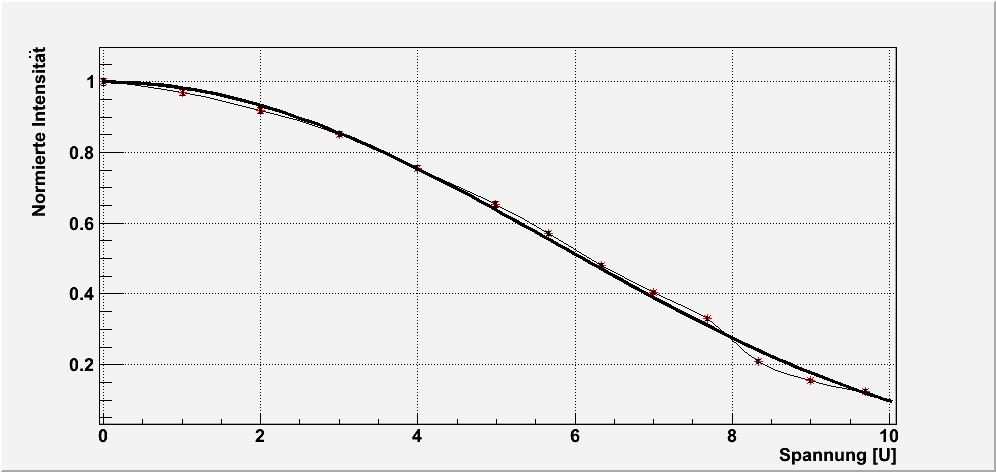
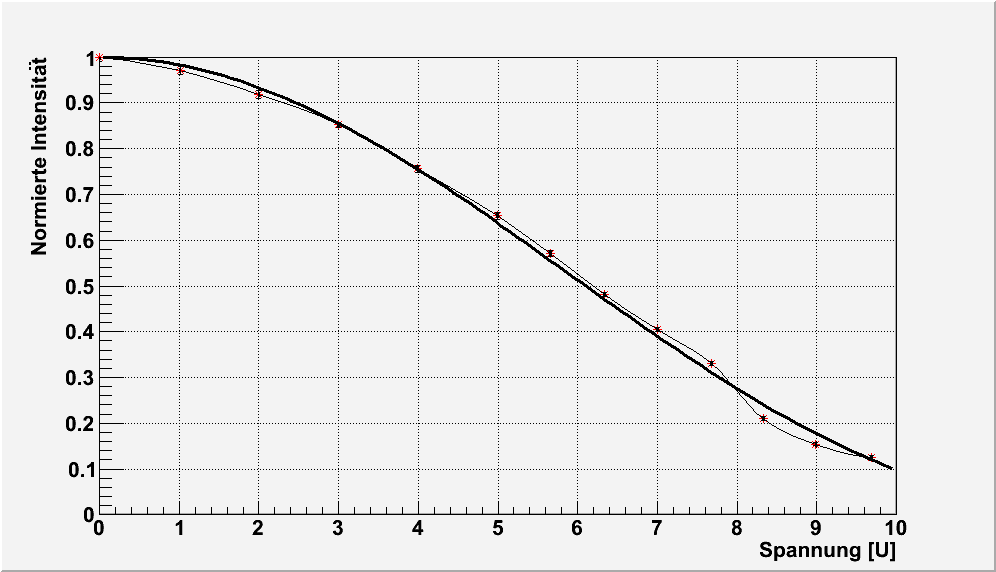
auswertung ++

Changed region(s): [[0.0311, 0.089, 0.9026, 0.8602], [0.0622, 0.5636, 0.9026, 1.0], [0.4357, 0.3856, 0.4669, 0.4153]]

diff --git a/ultraschall/Protokoll/auswertung.tex b/ultraschall/Protokoll/auswertung.tex
@@ -97,6 +97,7 @@ F\"ur die beiden PHYWE-Gitter kennen wir den theoretischen Wert, n\"amlich:
 \item PHYWE-08534: $g_{theo} = 8 L/mm\ \Rightarrow \ K_{theo} = 125 \ \mu m$
 \item PHYWE-08540: $g_{theo} = 10 L/mm\ \Rightarrow \ K_{theo} = 100 \ \mu m$
 %Vergleich mit dem exp. ermittelten Wert
+Unsere Ergebnisse weichen relativ stark von den theoretischen Werten ab, wir vermuten das die Justierung mit Gitter ``R'' fehlerhaft ist. Ursache könnten Deformationen des Gitters ``R'' bedingt durch sein Alter und den häufigen Gebrauch sein. Falls nötig können wir die Eichung für die korrigierte Version nochmals mit einem der PHYWE-Gitter vornehmen.
 \end{itemize} 
 
 \subsection{Berechnung der Aperturfunktion f\"ur Gitter 1}
@@ -121,11 +122,9 @@ Ordnung & Amplitude & Fehler \\
 \end{tabular}
 
 
-
-Mit $K = 130.96 \mu m $ erhalten wir folgende  
-\begin{figure}[h!]
+\begin{figure}[!h]
  \includegraphics{Bilder/appertur.pdf}
-\caption{Apperturfunktion}
+\caption{Apperturfunktion mit $K = 130.96 \mu m $}
 \end{figure}
 
 
@@ -155,28 +154,85 @@ Somit folgt f\"ur die Gitter:
 
 \subsection{Raman-Nath-Theorie}
 
-Durch Ablesen haben wir die Intensität der Maxima bestimmt. Diese haben wir dann mit der Intensität des Hauptmaxima bei ausgeschalteter Spannung $I_0 = $ normiert. Die in der Anleitung empfohlene Verwendung des 1. Minimums bei der Nullten Ordnung zur Bestimmung des Skalierungsfaktors $ $ konnten wir leider nicht befolgen, da dieses Minimum bei nicht durch unsere Messwerte abgedeckt wurde. Daher haben wir den Faktor alternativ durch Fitten der Funktion $J_0(a_0*x)$ an die 0. Ordnung bzw. $J_1(a_1*x)$ an die 1. Ordnung ermittelt. Wir erhalten dabei $a_0 = 1.8453e-01 \pm 3.7e-04$ sowie $a_1 = 2.3449e-01 \pm 7.0e-04 $ und verwenden für die restlichen beiden Ordnungen den Mittelwert $a = 2.09508e-01$. 
+\begin{verbatim}
+ werte[0.0][0] = 7.81411; s[0][0] = 0.05;
+  werte[0.0][1] = 0.534180; s[0][1] = 0.05;
+  werte[0.0][2] = 0.165152; s[0][2] = 0.05;
+  
+  werte[1.01][0] = 7.58345; s[1.01][0] = 0.05;
+  werte[1.01][1] = 0.595606; s[1.01][1] = 0.05;
 
-\begin{figure}[ht!]
+  werte[2.0][0] = 7.18386; s[2][0] = 0.05;
+  werte[2.0][1] = 0.911210; s[2][1] = 0.05;
+  
+  werte[3.0][0] = 6.65979; s[3.0][0] = 0.05;
+  werte[3.0][1] = (0.988260 + 1.06716) /2; s[3.0][0] = 0.03 / sqrt(2.);
+  
+  werte[3.99][0] = 5.90614; s[3.99][0] = 0.04;
+  werte[3.99][1] = (1.32051 + 1.37895) / 2; s[3.99][1] = 0.01 / sqrt(2.);
+  werte[3.99][2] = 0.1459; s[3.99][2] = 0.04;
+  
+  werte[4.99][0] = 5.10557; s[4.99][0] = 0.05;
+  werte[4.99][1] = (1.67044 + 1.71344) / 2; s[4.99][1] = 0.05 / sqrt(2.);
+  werte[4.99][2] = 0.232797; s[4.99][2] = 0.1;
+  
+  werte[5.66][0] = 4.46693; s[5.66][0] = 0.04;
+  werte[5.66][1] = ( 1.98781 + 1.98498)/ 2; s[5.66][1] = 0.04 / sqrt(2);
+  werte[5.66][2] = 0.307564; s[5.66][2] = 0.04;
+  
+  werte[6.34][0] = 3.76185; s[6.34][0] = 0.02;
+  werte[6.34][1] = (2.18152 + 2.20363) /2; s[6.34][1] = 0.03 / sqrt(2);
+  werte[6.34][2] = (0.366363 + 0.345704) / 2; s[6.34][2] = 0.03 / sqrt(2);
+  
+  werte[7.00][0] = 3.16188; s[7][0] = 0.02;
+  werte[7.00][1] = (2.40147 + 2.40510) / 2; s[7][1] = 0.03 /sqrt(2);
+  werte[7.00][2] = (0.482917 + 0.445933) / 2; s[7][2] = 0.03 / sqrt(2);
+  
+  werte[7.68][0] = 2.58162; s[7.68][0] = 0.03;
+  werte[7.68][1] = (2.56090+2.54017)/2; s[7.68][1] = 0.03 / sqrt(2);
+  werte[7.68][2] = (0.604586+0.558788) / 2; s[7.68][2] = 0.03 / sqrt(2);
+  
+  werte[8.33][0] = 1.64141; s[8.33][0] = 0.03;
+  werte[8.33][1] = (2.76328 + 2.72248)/2; s[8.33][1] = 0.02 / sqrt(2);
+  werte[8.33][2] = (0.819292 + 0.782161)/2; s[8.33][2] = 0.03 / sqrt(2);
+  werte[8.33][3] = (0.162417 + 0.121085)/2; s[8.33][3] = 0.03 / sqrt(2);
+  
+  werte[8.99][0] = 1.20705; s[8.99][0] = 0.03;
+  werte[8.99][1] = (2.74320 + 2.74059 )/2; s[8.99][1] = 0.03 / sqrt(2);
+  werte[8.99][2] = (0.985601 + 0.887822 ) / 2; s[8.99][2] = 0.03 / sqrt(2);
+  werte[8.99][3] = (0.177135 + 0.139159 ) / 2; s[8.99][3] = 0.03 / sqrt(2);
+  
+  werte[9.69][0] = 0.970063; s[9.69][0] = 0.04;
+  werte[9.69][1] = (2.65724 + 2.66896)/2; s[9.69][1] = 0.03 / sqrt(2);
+  werte[9.69][2] = (1.10564 +  1.04613) / 2; s[9.69][2] = 0.04 / sqrt(2);
+  werte[9.69][3] = (0.231922 +  0.189630) / 2; s[9.69][3] = 0.04 / sqrt(2);
+\end{verbatim}
+ 
+
+Durch Ablesen haben wir die Intensität der Maxima bestimmt. Diese haben wir dann mit der Intensität des Hauptmaxima bei ausgeschalteter Spannung $I_0 = $ normiert. Der Fehler ergibt sich dann durch $sI = \frac{I}{I0} * \sqrt{\left(\frac{sI}{I}\right)^2 + \left(\frac{sI_0}{I_0}\right)^2}$.
+
+Die in der Anleitung empfohlene Verwendung des 1. Minimums bei der Nullten Ordnung zur Bestimmung des Skalierungsfaktors $ a $ konnten wir leider nicht befolgen, da dieses Minimum bei nicht durch unsere Messwerte abgedeckt wurde. Daher haben wir den Faktor alternativ durch Fitten der Funktion $J_0(a_0*x)$ an die 0. Ordnung bzw. $J_1(a_1*x)$ an die 1. Ordnung ermittelt. Wir erhalten dabei $a_0 = 1.8453e-01 \pm 3.7e-04$ sowie $a_1 = 2.3449e-01 \pm 7.0e-04 $ und verwenden für die restlichen beiden Ordnungen den Mittelwert $a = 2.09508e-01$. 
+
+\begin{figure}[H]
  \includegraphics[width=0.9\textwidth]{Bilder/raman/raman-fit_0.png}
  \caption{Vergleich 0. Beugungsordnung mit $J_0^2$}
 \end{figure}
-
-\begin{figure}[ht!]
+Die Intensitäten der nullten Ordnung passen also gut zum Verlauf, der aus der Raman-Nath-Theorie erwartet wurde.
+\begin{figure}[H]
  \includegraphics[width=0.9\textwidth]{Bilder/raman/raman-fit_1.png}
  \caption{Vergleich 1. Beugungsordnung mit $J_1^2$}
 \end{figure}
-
-\begin{figure}[ht!]
+Die Intensitäten der ersten Ordnung passen ebenfalls zur Raman-Nath Theorie, allerdings nicht besonders gut.
+\begin{figure}[H]
  \includegraphics[width=0.9\textwidth]{Bilder/raman/raman-fit_2.png}
  \caption{Vergleich 2. Beugungsordnung mit $J_2^2$}
 \end{figure}
-
-\begin{figure}[ht!]
+Für die zweite Ordnung ist die Übereinstimmung mit der Theorie wieder etwas besser, der Wert bei $U=0V$ scheint allerdings falsch zu sein.
+\begin{figure}[H]
  \includegraphics[width=0.9\textwidth]{Bilder/raman/raman-fit_3.png}
  \caption{Vergleich 3. Beugungsordnung mit $J_3^2$}
 \end{figure}
-
+Da wir die dritte Beugungsordnung nur bei wenigen Spannungen beobachten konnten, eignet sie sich nicht für eine Aussage zur Gültigkiet der Raman-Nath-Theorie.
 
 \subsubsection{Ultraschallwellenlänge}
 
@@ -184,25 +240,28 @@ Für die Ermittlung der Schallwellenlänge haben wir die Messung bei $ U = 9.69 
 $$ \sin \alpha = \frac{m \lambda}{\lambda^{*}} = \beta \frac{\Delta t}{2} $$
  die Schallwellenlänge $ \lambda^* $
 
+
+\begin{table}[H]
 \begin{center}
-\begin{table}[ht!]
 \caption{Steigung und Achsenabschnitt der Ausgleichsgeraden}
 \begin{tabular}{llll}
-
 \toprule
+Parameter & Wert & Fehler & \\
+\midrule
 a & 2.07162e-05   &  $ \pm 9.1e-08$  &    $(0.4392\%)$\\
-b & 9.85261e-05 & $ \pm - 1.966e-07$ &   $(0.1995\%)$ \\
+b & 9.85261e-05 & $ \pm 1.966e-07$ &   $(0.1995\%)$ \\
 \bottomrule
 \end{tabular}
-\end{table}
 \end{center}
+\end{table}
 
 
-Aus $ \beta \frac{\Delta t}{2} = a m + b = \frac{\lambda}{\lambda^*} m + b $ folgt $ \lambda^* = \frac{\lambda}{\beta a} = 575.329 \mu m$ 
+Aus $ \beta \frac{\Delta t}{2} = a m + b = \frac{\lambda}{\lambda^*} m + b $ folgt 
+$$\boxed{ \lambda^* = \frac{\lambda}{\beta a} = 575.329 \mu m}$$
+
+Der Achsenabschnitt enthält nur den Offset und ist nicht weiter von Bedeutung. 
 
 
-
-$sin \alpha = $
 
 
 

diff --git a/ultraschall/Protokoll/zusammenfassung.tex b/ultraschall/Protokoll/zusammenfassung.tex
@@ -1,1 +1,81 @@
  \section{Zusammenfassung}
+
+\subsection{Sinusgitter} %fertig
+
+Für die Gitterkonstante des Sinusgitters erhalten wir
+$$\boxed{K=(9810 \pm 44) \ \mathring A = (981.0 \pm 4.4) \ nm}$$
+
+Als Vergleich: Auf dem Gitter ist die Zahl der Linien pro Millimeter angegeben: \\ $g_{theo}=1016 L/mm$. Es folgt der Wert f\"ur die Gitterkonstante: $K_{theo} = 1/g_{theo} = 9842.52 \ \mathring A$, welcher sehr dicht an unserem ermittelten Wert liegt und innerhalb der ersten Standardabweichung.
+
+\subsection{Bestimmung der Gitterkonstanten}
+
+\subsubsection{Eichung anhand des Gitters R}
+
+Wir ermittelten den Proportionalitätsfaktor $\gamma$ zwischen Zeit $t$ und Sinus des Winkels $\sin \alpha$ 
+
+$$ \gamma = (53.093317084272421 \pm 0.0546974909799) s^{-1} $$
+%$$s\gamma = \frac{\lambda}{Kb^2} \cdot sb $$
+
+
+\subsubsection{Bestimmung der Gitterkonstanten f\"ur die 5 Gitter}
+
+Wir ermittelten die folgenden fünf Gitterkonstanten
+\begin{center}
+\begin{tabular}{lllll}
+\toprule 
+Gitter & $\Delta t /2$ in $\mu s$ & $s\Delta t /2$ in $\mu s$ & $k$ in $\mu m$ & $sk$ in $\mu m$\\
+\midrule
+G1 & 89.742 & 0.568 & 132.81 & 0.85\\
+G3 & 112.111 & 0.205 & 106.31 & 0.22\\
+G4 & 112.411 & 0.107 & 106.03 & 0.14\\
+08540 & 113.490 & 0.677 & 105.02 & 0.64\\
+08534 & 91.0123 & 0.139 & 130.96 & 0.24\\
+\bottomrule
+\end{tabular} 
+\end{center}
+
+F\"ur die beiden PHYWE-Gitter kennen wir den theoretischen Wert, n\"amlich: 
+\begin{itemize}
+\item PHYWE-08534: $g_{theo} = 8 L/mm\ \Rightarrow \ K_{theo} = 125 \ \mu m$
+\item PHYWE-08540: $g_{theo} = 10 L/mm\ \Rightarrow \ K_{theo} = 100 \ \mu m$
+%Vergleich mit dem exp. ermittelten Wert
+\end{itemize} 
+
+\subsection{Berechnung der Aperturfunktion f\"ur Gitter 1}
+
+Wir näherten die Aperturfunktion mittels den Intensit\"aten der gemessenen Verteilung als Fourierreihe:
+$$g(x) = \frac{\sqrt{I_0}}{2} + \sum_{n=1}^N \sqrt{I_n}\cos\left(\frac{2\pi n}{K}x \right)$$
+
+\begin{figure}[H]
+ \includegraphics{Bilder/appertur.pdf}
+\caption{Apperturfunktion mit $K = 130.96 \mu m $}
+\end{figure}
+
+
+\subsection{Bestimmung des Verh\"altnisses zwischen Spaltbreite und Spaltabstand}
+
+Wir erhalten für das Verhältnis von Spaltbreite zu -höhe
+$$ v = \frac{b}{K-b} = 0.26378 $$ %TODO Fehler? 
+
+\subsection{Aufl\"osungsverm\"ogen der Gitter}
+
+Für das Auflösungsvermögen der Gitter haben wir erhalten:
+
+\begin{itemize}
+\item Gitter 1: $ a = 67.76575165317837 \pm 11.302658636724754 $
+\item Gitter 3: $ a = 56.437974555788117 \pm 9.4070743547623081 $
+\item Gitter 4: $ a = 28.294658556680321 \pm 4.7159427734459909 $
+\item PHYWE 08540: $ a = 28.566288540708861 \pm 4.764184123944938 $
+\item PHYWE 08534: $ a = 45.816820585847005 \pm 7.6366043023007304 $
+\end{itemize}
+
+
+\subsection{Raman-Nath-Theorie}
+
+Wir konnten die Raman-Nath-Theorie für die 0. bis 2. Ordnung bestätigen, höhere Ordnungen konnten wir nicht (hinreichend häufig) auflösen.
+
+\subsubsection{Ultraschallwellenlänge}
+
+Für die Ermittlung der Schallwellenlänge haben wir die Messung bei $ U = 9.69 V$ und $f = 2109.195 kHz $ verwendet und  
+$$\boxed{ \lambda^* = 575.329 \mu m}$$
+erhalten.

diff --git a/ultraschall/Protokoll/ultraschall.tex b/ultraschall/Protokoll/ultraschall.tex
@@ -30,9 +30,6 @@
   \maketitle
   \vfill
   \thispagestyle{empty}
-  \begin{abstract}
-    Hier sollte eine Zusammenfassung der Ergebnisse stehen. Der Umfang sollte dabei etwa 100 Wörte nicht überschreiten.
-  \end{abstract}
 \end{titlepage}
 
 \tableofcontents
